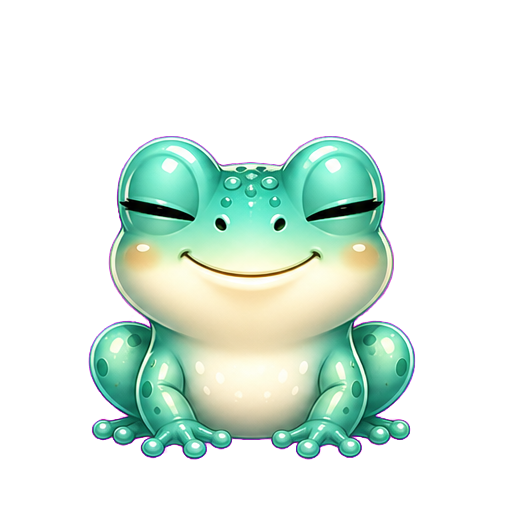
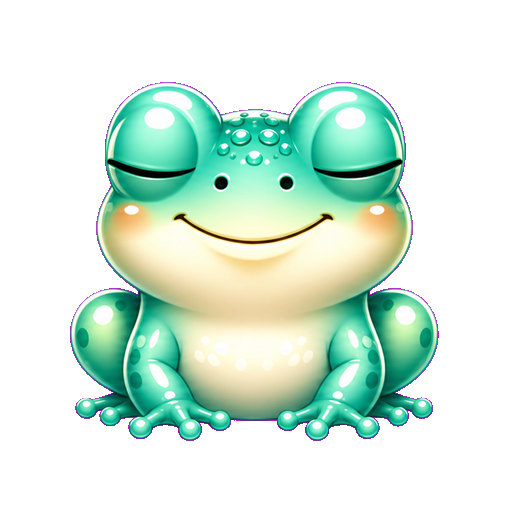
Refine frog cursor state sprites

diff --git a/apps/web/app/components/portfolio/FrogTongueCursor.tsx b/apps/web/app/components/portfolio/FrogTongueCursor.tsx
@@ -31,11 +31,13 @@ const TONGUE_RETRACT_MS = 210;
 const TONGUE_CATCH_MS = 260;
 const FLY_RESPAWN_MS = 90;
 const TONGUE_HIT_RADIUS = 38;
-const FROG_MOUTH_OFFSET_Y = 27;
+const FROG_MOUTH_OFFSET_X = -1;
+const FROG_MOUTH_OFFSET_Y = 27.2;
 
 const frogSprites = {
     idle: "/cursors/frog-idle.png",
     blink: "/cursors/frog-blink.png",
+    open: "/cursors/frog-open.png",
     hop: {
         ready: {
             left: "/cursors/frog-hop-ready-left.png",
@@ -99,7 +101,7 @@ function limitTongueTarget(mouth: Point, target: Point) {
 
 function getMouthPoint(frogX: number, frogY: number, frogHop: number): Point {
     return {
-        x: frogX,
+        x: frogX + FROG_MOUTH_OFFSET_X,
         y: frogY + frogHop - FROG_MOUTH_OFFSET_Y,
     };
 }
@@ -161,7 +163,7 @@ function FrogSprite({ phase, direction }: { phase: FrogPhase; direction: FrogDir
                 alt=""
                 draggable="false"
                 className={frogImageClass}
-                animate={{ opacity: isHopping ? 0 : 1 }}
+                animate={{ opacity: isHopping || mouthOpen ? 0 : 1 }}
                 transition={{ duration: 0.08 }}
             />
             <motion.img
@@ -172,43 +174,14 @@ function FrogSprite({ phase, direction }: { phase: FrogPhase; direction: FrogDir
                 animate={{ opacity: mouthOpen || isHopping ? 0 : [0, 0, 1, 1, 0, 0] }}
                 transition={{ duration: 4.4, repeat: Infinity, times: [0, 0.8, 0.84, 0.88, 0.92, 1], ease: "easeInOut" }}
             />
-            <motion.svg
-                viewBox="0 0 512 512"
-                aria-hidden="true"
-                className="absolute inset-0 h-full w-full"
-                initial={false}
+            <motion.img
+                src={frogSprites.open}
+                alt=""
+                draggable="false"
+                className={frogImageClass}
                 animate={{ opacity: mouthOpen && !isHopping ? 1 : 0 }}
-                transition={{ duration: mouthOpen ? 0.1 : 0.08, ease: "easeOut" }}
-            >
-                <defs>
-                    <radialGradient id="frog-mouth-depth" cx="50%" cy="34%" r="75%">
-                        <stop offset="0%" stopColor="#5f101b" />
-                        <stop offset="68%" stopColor="#2a050b" />
-                        <stop offset="100%" stopColor="#170205" />
-                    </radialGradient>
-                    <linearGradient id="frog-mouth-lip" x1="0%" y1="0%" x2="0%" y2="100%">
-                        <stop offset="0%" stopColor="#fff6dc" stopOpacity="0.9" />
-                        <stop offset="100%" stopColor="#cf7a69" stopOpacity="0.62" />
-                    </linearGradient>
-                </defs>
-                <path
-                    d="M177 255 C199 225 313 225 335 255 C323 304 188 304 177 255 Z"
-                    fill="url(#frog-mouth-depth)"
-                    stroke="url(#frog-mouth-lip)"
-                    strokeWidth="9"
-                    strokeLinecap="round"
-                    strokeLinejoin="round"
-                />
-                <path
-                    d="M212 272 C235 292 281 292 304 272"
-                    fill="none"
-                    stroke="#f08c91"
-                    strokeWidth="10"
-                    strokeLinecap="round"
-                    opacity="0.56"
-                />
-                <ellipse cx="256" cy="252" rx="44" ry="12" fill="#941c2b" opacity="0.58" />
-            </motion.svg>
+                transition={{ duration: mouthOpen ? 0.08 : 0.06, ease: "easeOut" }}
+            />
             <motion.img
                 src={directedSprite(frogSprites.hop.ready, direction)}
                 alt=""
@@ -384,13 +357,33 @@ export default function FrogTongueCursor({ isDark }: FrogTongueCursorProps) {
             hasPointerRef.current = false;
         };
 
+        const pauseForModal = () => {
+            clearTimers();
+            stopTongue();
+            hopControlsRef.current?.stop();
+            frogMoveControlsRef.current?.stop();
+            frogHop.set(0);
+            resetTongueToMouth();
+            setPhase("idle");
+            setFly("free");
+
+            const pointer = pointerRef.current;
+            const pointerIsInViewport = pointer.x > 0 && pointer.y > 0 && pointer.x < window.innerWidth && pointer.y < window.innerHeight;
+            hasPointerRef.current = pointerIsInViewport;
+            setHasPointer(pointerIsInViewport);
+            if (pointerIsInViewport) {
+                flyX.set(pointer.x);
+                flyY.set(pointer.y);
+            }
+        };
+
         const syncSuppression = () => {
             const nextSuppressed = isPortfolioModalOpen();
             if (isSuppressedRef.current === nextSuppressed) return nextSuppressed;
 
             isSuppressedRef.current = nextSuppressed;
             setIsSuppressed(nextSuppressed);
-            if (nextSuppressed) reset();
+            if (nextSuppressed) pauseForModal();
             if (!nextSuppressed) {
                 resetTongueToMouth();
                 setPhase("idle");
@@ -608,14 +601,20 @@ export default function FrogTongueCursor({ isDark }: FrogTongueCursorProps) {
         };
     }, [canUseCursor, flyX, flyY, frogHop, frogX, frogY, tongueEndX, tongueEndY]);
 
-    if (!canUseCursor || isSuppressed) return null;
+    if (!canUseCursor) return null;
 
     const tongueColor = isDark ? "#ff8fb4" : "#d94c73";
     const tongueHighlight = isDark ? "rgba(255,220,232,0.9)" : "rgba(255,198,214,0.86)";
 
     return (
-        <div className="pointer-events-none fixed inset-0 z-[70]" aria-hidden="true" data-portfolio-frog-cursor="" data-frog-phase={frogPhase}>
-            <svg className="absolute inset-0 z-[12] h-full w-full overflow-visible">
+        <div
+            className={`pointer-events-none fixed inset-0 ${isSuppressed ? "z-[90]" : "z-[70]"}`}
+            aria-hidden="true"
+            data-portfolio-frog-cursor=""
+            data-frog-phase={frogPhase}
+            data-frog-suppressed={isSuppressed ? "true" : "false"}
+        >
+            {!isSuppressed && <svg className="absolute inset-0 z-[12] h-full w-full overflow-visible">
                 <motion.path
                     key={`tongue-shadow-${tongueShotId}`}
                     data-testid="frog-tongue-shadow"
@@ -661,9 +660,9 @@ export default function FrogTongueCursor({ isDark }: FrogTongueCursorProps) {
                     }}
                     transition={{ pathLength: { duration: 0.14, ease: [0.08, 0.86, 0.18, 1] }, opacity: { duration: 0.08 } }}
                 />
-            </svg>
+            </svg>}
 
-            <motion.div
+            {!isSuppressed && <motion.div
                 data-testid="frog-tongue-tip"
                 className={`absolute z-[18] h-4 w-4 rounded-full shadow-[0_0_16px_rgba(255,126,164,0.34)] ${isDark ? "bg-[#ffd7e5]" : "bg-[#e95f86]"}`}
                 style={{
@@ -679,7 +678,7 @@ export default function FrogTongueCursor({ isDark }: FrogTongueCursorProps) {
                     scale: frogPhase === "shoot" || frogPhase === "catch" ? [0.55, 1.12, 0.92] : 0.5,
                 }}
                 transition={{ duration: 0.18, ease: [0.08, 0.86, 0.18, 1] }}
-            />
+            />}
 
             <motion.div
                 data-testid="fly-cursor"
@@ -706,7 +705,7 @@ export default function FrogTongueCursor({ isDark }: FrogTongueCursorProps) {
                 <FlyIcon isDark={isDark} />
             </motion.div>
 
-            <motion.div
+            {!isSuppressed && <motion.div
                 data-testid="frog-hunter"
                 data-frog-state={frogPhase}
                 data-frog-facing={facing === -1 ? "left" : "right"}
@@ -725,7 +724,7 @@ export default function FrogTongueCursor({ isDark }: FrogTongueCursorProps) {
                 transition={{ opacity: { duration: 0.18 } }}
             >
                 <FrogSprite phase={frogPhase} direction={facing} />
-            </motion.div>
+            </motion.div>}
         </div>
     );
 }

diff --git a/apps/web/app/globals.css b/apps/web/app/globals.css
@@ -158,12 +158,6 @@ body.portfolio-modal-open .portfolio-back-to-top {
     transform: translateY(12px) scale(0.92) !important;
 }
 
-body.portfolio-modal-open [data-portfolio-frog-cursor] {
-    opacity: 0 !important;
-    pointer-events: none !important;
-    visibility: hidden !important;
-}
-
 body.portfolio-modal-open {
     overscroll-behavior: none;
     touch-action: none;
